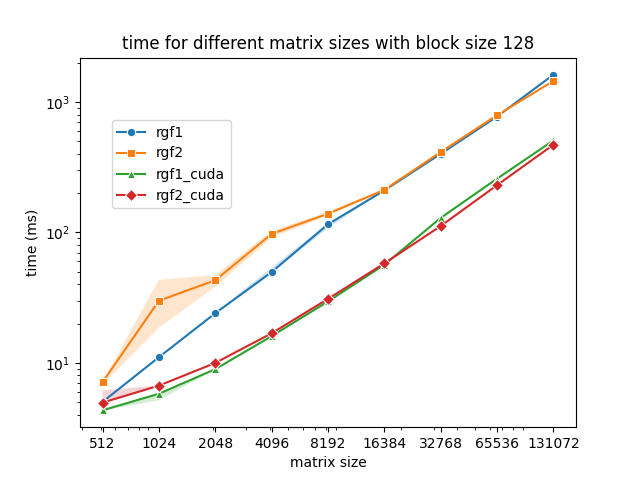
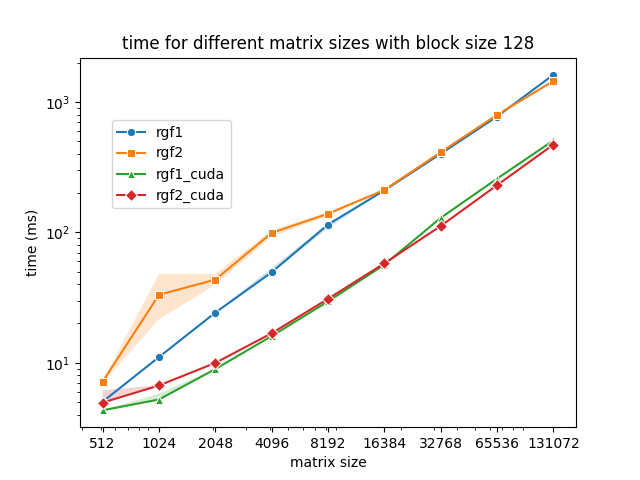
change box; remove outlier

diff --git a/plot_rgf.py b/plot_rgf.py
@@ -8,12 +8,13 @@ import pandas as pd
 # input 
 # Use IQR method to remove outliers
 def remove_outliers(df):
-    Q1 = df.quantile(0.25)
-    Q3 = df.quantile(0.75)
-    IQR = Q3 - Q1
-    outliers_iqr = ((df < (Q1 - 1.5 * IQR)) | (df > (Q3 + 1.5 * IQR))).any(axis=1)
-    df_no_outliers_iqr = df[~outliers_iqr]
-    return df_no_outliers_iqr
+    # Q1 = df.quantile(0.25)
+    # Q3 = df.quantile(0.75)
+    # IQR = Q3 - Q1
+    # outliers_iqr = ((df < (Q1 - 1.5 * IQR)) | (df > (Q3 + 1.5 * IQR))).any(axis=1)
+    # df_no_outliers_iqr = df[~outliers_iqr]
+    # return df_no_outliers_iqr
+    return df.drop(range(5))
 
 # arguments 
 matrix_sizes = [512, 1024, 2048, 4096, 8192, 16384, 32768, 65536, 131072]
@@ -151,7 +152,8 @@ def lineplot_performance():
                     data_y.append(median)
                     flops_list.append(flops_count)
                     cycles_list.append(cycle_count)
-                    perf_list.append(flops_count / cycle_count)
+                    # perf_list.append(flops_count / cycle_count)
+                    perf_list.append(flops_count / (median/1000000)) # micro second to second
 
                 # rgf1 and rgf1_cuda
                 else:
@@ -163,12 +165,13 @@ def lineplot_performance():
                     flops_count, cycle_count = rgf1_flops_cycles(matrix_size, block_size, median)
                     flops_list.append(flops_count)
                     cycles_list.append(cycle_count)
-                    perf_list.append(flops_count / cycle_count)
+                    # perf_list.append(flops_count / cycle_count)
+                    perf_list.append(flops_count / (median/1000000))
             sns.lineplot(x=matrix_sizes, y=perf_list, label=algo_names[i], marker=markers[i])
 
         # Add labels and title
         plt.xlabel('matrix size')
-        plt.ylabel('performance (flops/cycle)')
+        plt.ylabel('performance (flops/second)')
         plt.title(f"performance for different matrix sizes with block size {block_size}")
         # plt.yscale('log')
         plt.xscale('log')
@@ -260,38 +263,31 @@ def boxplot_performance():
                     df = max_df
                     df = remove_outliers(df)
                     data_y.append(df['time'].values/1000)
-                    # median = np.median(df['time'].values)
-                    # flops_count, cycle_count = rgf2_flops_cycles(matrix_size, block_size, median)
-                    # data_y.append(median)
-                    # flops_list.append(flops_count)
-                    # cycles_list.append(cycle_count)
-                    # perf_list.append(flops_count / cycle_count)
-
+                    flops_count, cycle_count = rgf2_flops_cycles(matrix_size, block_size, 0)
+                    perf_data = [flops_count / (t/1000000) for t in df['time'].values]
+                    perf_list.append(perf_data)
                 # rgf1 and rgf1_cuda
                 else:
                     data_path = os.path.join(matrix_block, file)
                     df = pd.read_csv(data_path, delim_whitespace=True, comment='#',usecols=['time'])
                     df = remove_outliers(df)
                     data_y.append(df['time'].values/1000)
-                    # median = np.median(df['time'].values)
-                    # data_y.append(median)
-                    # flops_count, cycle_count = rgf1_flops_cycles(matrix_size, block_size, median)
-                    # flops_list.append(flops_count)
-                    # cycles_list.append(cycle_count)
-                    # perf_list.append(flops_count / cycle_count)
+                    flops_count, cycle_count = rgf1_flops_cycles(matrix_size, block_size, 0)
+                    perf_data = [flops_count / (t/1000000) for t in df['time'].values]
+                    perf_list.append(perf_data)
             # sns.lineplot(x=matrix_sizes, y=perf_list, label=algo_names[i], marker=markers[i])
             sns.boxplot(data=data_y, showfliers=True)
 
             plt.xticks(range(len(matrix_sizes)), matrix_sizes)
             # Add labels and title
             plt.xlabel('matrix size')
-            plt.ylabel('time (ms)')
-            plt.title(f"{algo_names[i]}: time for different matrix sizes with block size {block_size}")
-            plt.savefig(f"./figures/boxplot_time_block{block_size}_{algo_names[i]}.png")
+            plt.ylabel('performance (flops/second)')
+            plt.title(f"{algo_names[i]}: performance for different matrix sizes with block size {block_size}")
+            plt.savefig(f"./figures/boxplot_performance_block{block_size}_{algo_names[i]}.png")
             plt.clf()
 
 
 lineplot_time()
-# lineplot_performance()
-# boxplot_performance()
+lineplot_performance()
+boxplot_performance()
 lineplot_algorithm()
